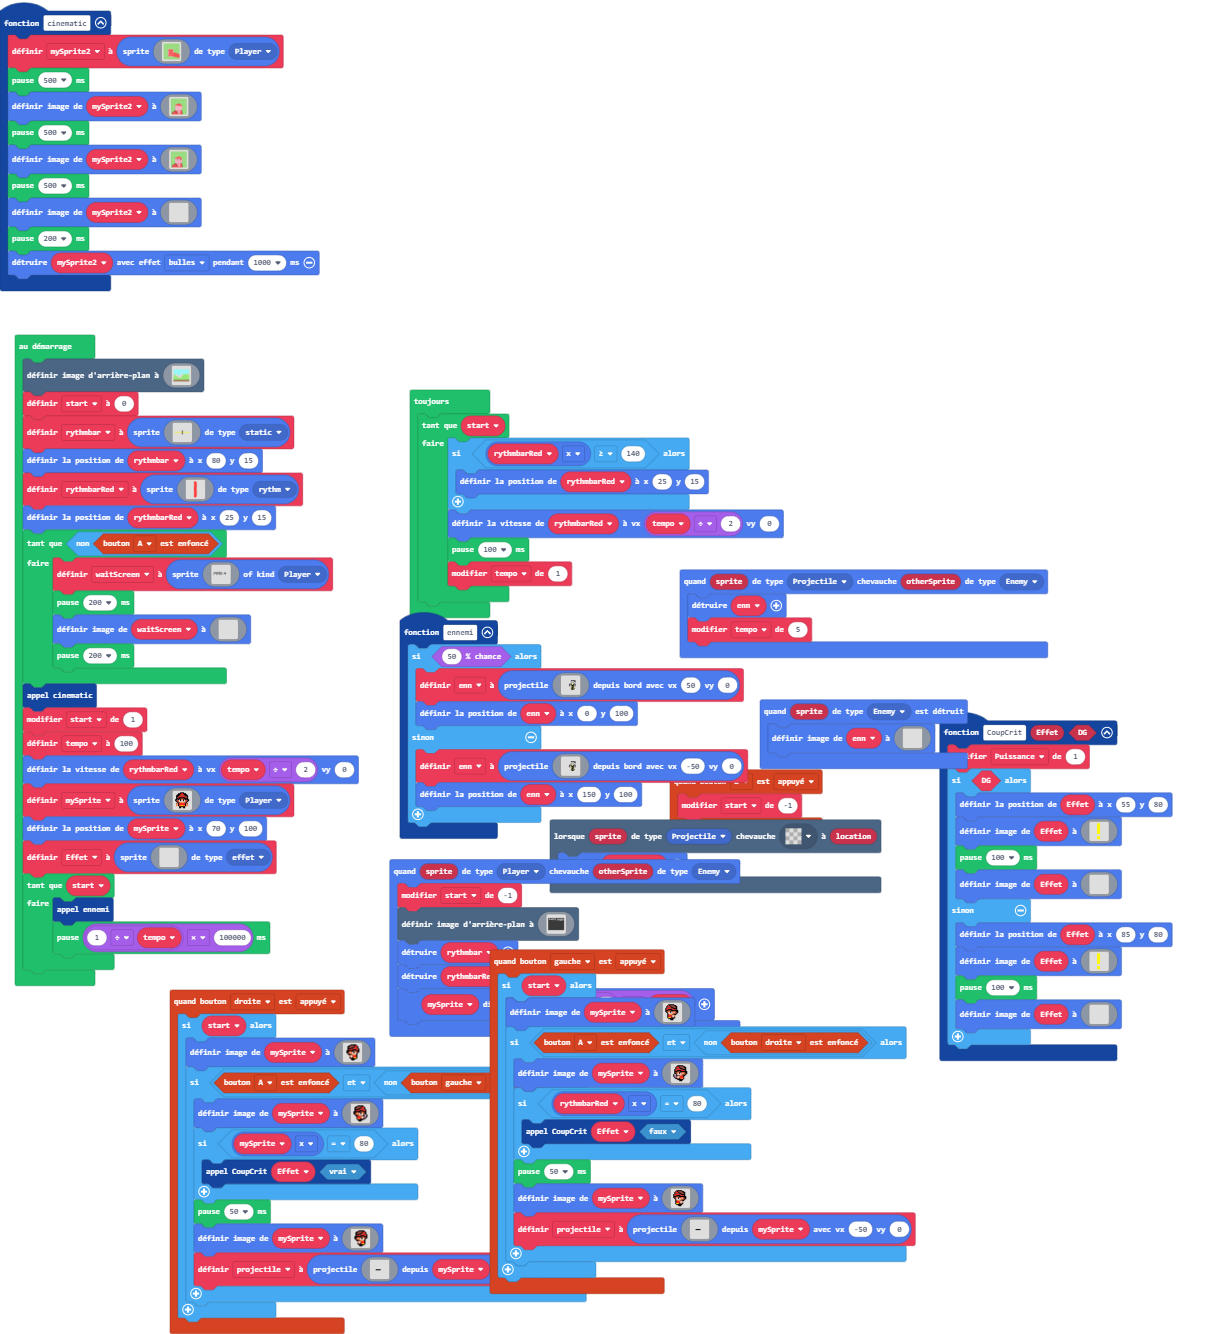
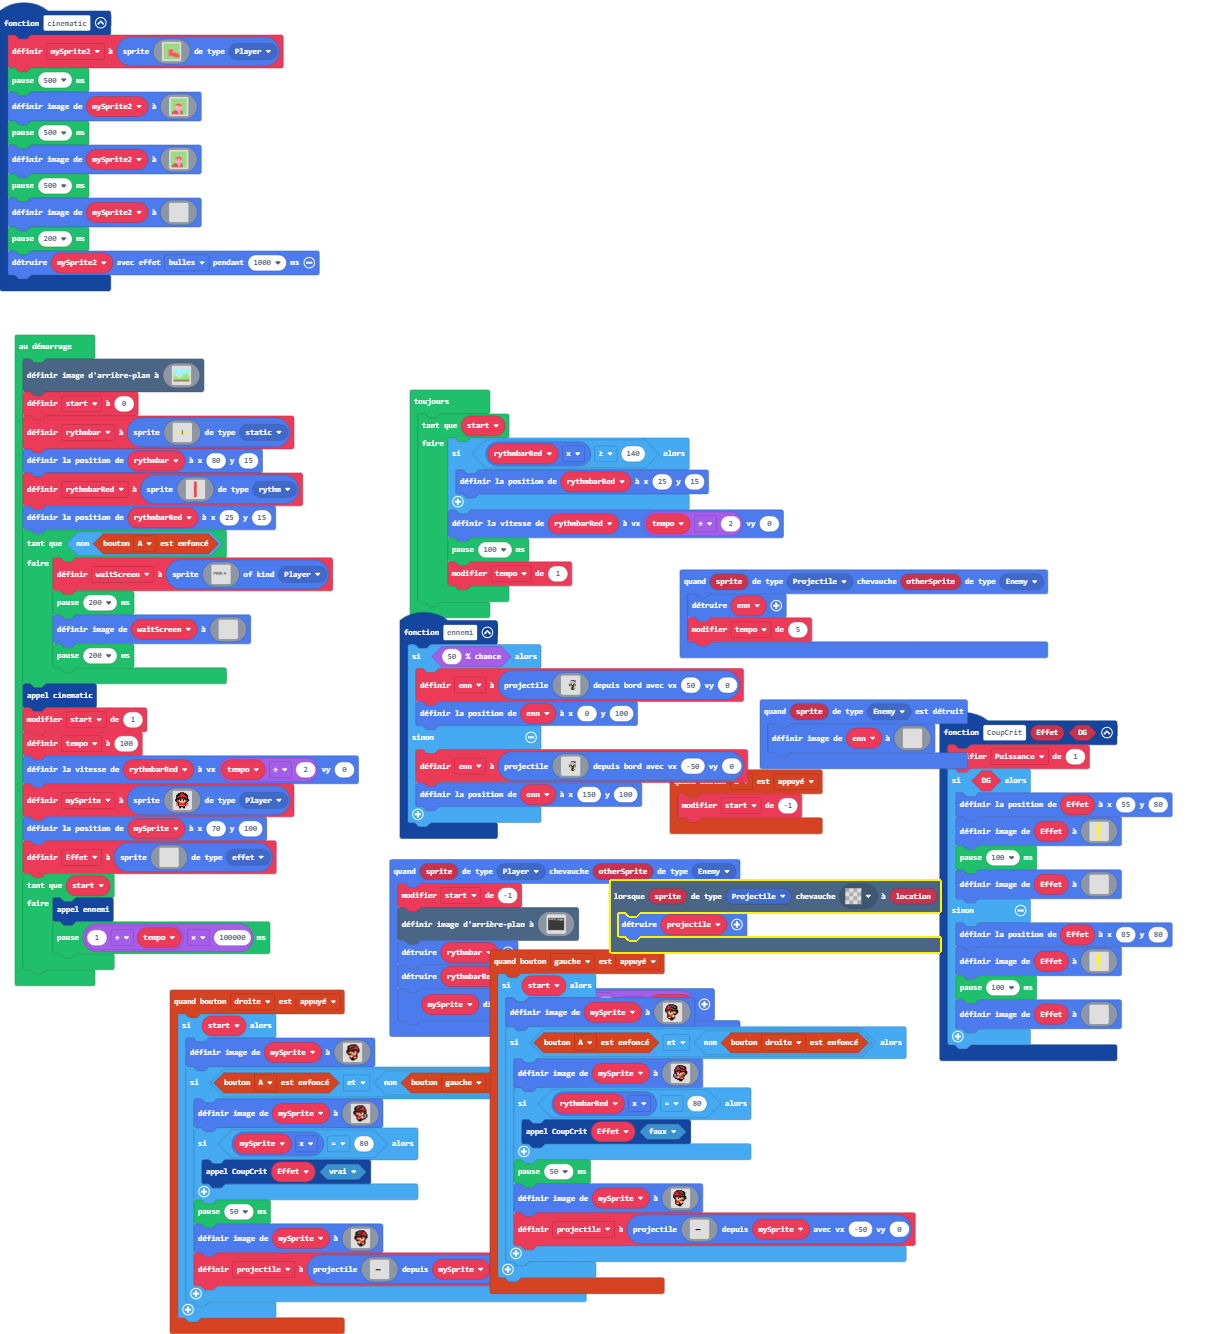
Mise à jour main.blocks, images.g.jres, images.g.ts

Changed region(s): [[0.4346, 0.6147, 0.7761, 0.7376]]

diff --git a/images.g.ts b/images.g.ts
@@ -1753,128 +1753,6 @@ ffffffffffffffffffffffffffffffffffffffffffffffffffffffffffffffffffffffffffffffff
 . . . . . . . . . . . . . . . . 
 . . . . . . . . . . . . . . . . 
 `;
-            case "image18":return img`
-ffffffffffffffffffffffffffffffffffffffffffffffffffffffffffffffffffffffffffffffffffffffffffffffffffffffffffffffffffffffffffffffffffffffffffffffffffffffffffffffff
-ffffffffffffffffffffffffffffffffffffffffffffffffffffffffffffffffffffffffffffffffffffffffffffffffffffffffffffffffffffffffffffffffffffffffffffffffffffffffffffffff
-ffffffffffffffffffffffffffffffffffffffffffffffffffffffffffffffffffffffffffffffffffffffffffffffffffffffffffffffffffffffffffffffffffffffffffffffffffffffffffffffff
[23 lines of base64/hex data omitted]
-ffffffffffffffffffffffffffffffffffffffffffffffffffffffffffffffffffffffffffffffffffffffffffffffffffffffffffffffffffffffffffffffffffffffffffffffffffffffffffffffff
-ffffffffffffffffffffffffffffffffffffffffffffffffffffffffffffffffffffffffffffffffffffffffffffffffffffffffffffffffffffffffffffffffffffffffffffffffffffffffffffffff
-ffffffffffffffffffffffffffffffffffffffffffffffffffffffffffffffffffffffffffffffffffffffffffffffffffffffffffffffffffffffffffffffffffffffffffffffffffffffffffffffff
-ffffffffffffffffffffffffffffffffffffffffffffffffffffffffffffffffffffffffffffffffffffffffffffffffffffffffffffffffffffffffffffffffffffffffffffffffffffffffffffffff
-ffffffffffffffffffffffffffffffffffffffffffffffffffffffffffffffffffffffffffffffffffffffffffffffffffffffffffffffffffffffffffffffffffffffffffffffffffffffffffffffff
-ffffffffffffffffffffffffffffffffffffffffffffffffffffffffffffffffffffffffffffffffffffffffffffffffffffffffffffffffffffffffffffffffffffffffffffffffffffffffffffffff
-ffffffffffffffffffffffffffffffffffffffffffffffffffffffffffffffffffffffffffffffffffffffffffffffffffffffffffffffffffffffffffffffffffffffffffffffffffffffffffffffff
-ffffffffffffffffffffffffffffffffffffffffffffffffffffffffffffffffffffffffffffffffffffffffffffffffffffffffffffffffffffffffffffffffffffffffffffffffffffffffffffffff
-ffffffffffffffffffffffffffffffffffffffffffffffffffffffffffffffffffffffffffffffffffffffffffffffffffffffffffffffffffffffffffffffffffffffffffffffffffffffffffffffff
-ffffffffffffffffffffffffffffffffffffffffffffffffffffffffffffffffffffffffffffffffffffffffffffffffffffffffffffffffffffffffffffffffffffffffffffffffffffffffffffffff
-ffffffffffffffffffffffffffffffffffffffffffffffffffffffffffffffffffffffffffffffffffffffffffffffffffffffffffffffffffffffffffffffffffffffffffffffffffffffffffffffff
-ffffffffffffffffffffffffffffffffffffffffffffffffffffffffffffffffffffffffffffffffffffffffffffffffffffffffffffffffffffffffffffffffffffffffffffffffffffffffffffffff
-ffffffffffffffffffffffffffffffffffffffffffffffffffffffffffffffffffffffffffffffffffffffffffffffffffffffffffffffffffffffffffffffffffffffffffffffffffffffffffffffff
-ffffffffffffffffffffffffffffffffffffffffffffffffffffffffffffffffffffffffffffffffffffffffffffffffffffffffffffffffffffffffffffffffffffffffffffffffffffffffffffffff
-ffffffffffffffffffffffffffffffffffffffffffffffffffffffffffffffffffffffffffffffffffffffffffffffffffffffffffffffffffffffffffffffffffffffffffffffffffffffffffffffff
-ffffffffffffffffffffffffffffffffffffffffffffffffffffffffffffffffffffffffffffffffffffffffffffffffffffffffffffffffffffffffffffffffffffffffffffffffffffffffffffffff
-ffffffffffffffffffffffffffffffffffffffffffffffffffffffffffffffffffffffffffffffffffffffffffffffffffffffffffffffffffffffffffffffffffffffffffffffffffffffffffffffff
-ffffffffffffffffffffffffffffffffffffffffffffffffffffffffffffffffffffffffffffffffffffffffffffffffffffffffffffffffffffffffffffffffffffffffffffffffffffffffffffffff
-ffffffffffffffffffffffffffffffffffffffffffffffffffffffffffffffffffffffffffffffffffffffffffffffffffffffffffffffffffffffffffffffffffffffffffffffffffffffffffffffff
-ffffffffffffffffffffffffffffffffffffffffffffffffffffffffffffffffffffffffffffffffffffffffffffffffffffffffffffffffffffffffffffffffffffffffffffffffffffffffffffffff
-ffffffffffffffffffffffffffffffffffffffffffffffffffffffffffffffffffffffffffffffffffffffffffffffffffffffffffffffffffffffffffffffffffffffffffffffffffffffffffffffff
-ffffffffffffffffffffffffffffffffffffffffffffffffffffffffffffffffffffffffffffffffffffffffffffffffffffffffffffffffffffffffffffffffffffffffffffffffffffffffffffffff
-ffffffffffffffffffffffffffffffffffffffffffffffffffffffffffffffffffffffffffffffffffffffffffffffffffffffffffffffffffffffffffffffffffffffffffffffffffffffffffffffff
-ffffffffffffffffffffffffffffffffffffffffffffffffffffffffffffffffffffffffffffffffffffffffffffffffffffffffffffffffffffffffffffffffffffffffffffffffffffffffffffffff
-ffffffffffffffffffffffffffffffffffffffffffffffffffffffffffffffffffffffffffffffffffffffffffffffffffffffffffffffffffffffffffffffffffffffffffffffffffffffffffffffff
-ffffffffffffffffffffffffffffffffffffffffffffffffffffffffffffffffffffffffffffffffffffffffffffffffffffffffffffffffffffffffffffffffffffffffffffffffffffffffffffffff
-ffffffffffffffffffffffffffffffffffffffffffffffffffffffffffffffffffffffffffffffffffffffffffffffffffffffffffffffffffffffffffffffffffffffffffffffffffffffffffffffff
-ffffffffffffffffffffffffffffffffffffffffffffffffffffffffffffffffffffffffffffffffffffffffffffffffffffffffffffffffffffffffffffffffffffffffffffffffffffffffffffffff
-ffffffffffffffffffffffffffffffffffffffffffffffffffffffffffffffffffffffffffffffffffffffffffffffffffffffffffffffffffffffffffffffffffffffffffffffffffffffffffffffff
-ffffffffffffffffffffffffffffffffffffffffffffffffffffffffffffffffffffffffffffffffffffffffffffffffffffffffffffffffffffffffffffffffffffffffffffffffffffffffffffffff
-ffffffffffffffffffffffffffffffffffffffffffffffffffffffffffffffffffffffffffffffffffffffffffffffffffffffffffffffffffffffffffffffffffffffffffffffffffffffffffffffff
-ffffffffffffffffffffffffffffffffffffffffffffffffffffffffffffffffffffffffffffffffffffffffffffffffffffffffffffffffffffffffffffffffffffffffffffffffffffffffffffffff
-ffffffffffffffffffffffffffffffffffffffffffffffffffffffffffffffffffffffffffffffffffffffffffffffffffffffffffffffffffffffffffffffffffffffffffffffffffffffffffffffff
-ffffffffffffffffffffffffffffffffffffffffffffffffffffffffffffffffffffffffffffffffffffffffffffffffffffffffffffffffffffffffffffffffffffffffffffffffffffffffffffffff
-ffffffffffffffffffffffffffffffffffffffffffffffffffffffffffffffffffffffffffffffffffffffffffffffffffffffffffffffffffffffffffffffffffffffffffffffffffffffffffffffff
-ffffffffffffffffffffffffffffffffffffffffffffffffffffffffffffffffffffffffffffffffffffffffffffffffffffffffffffffffffffffffffffffffffffffffffffffffffffffffffffffff
-ffffffffffffffffffffffffffffffffffffffffffffffffffffffffffffffffffffffffffffffffffffffffffffffffffffffffffffffffffffffffffffffffffffffffffffffffffffffffffffffff
-ffffffffffffffffffffffffffffffffffffffffffffffffffffffffffffffffffffffffffffffffffffffffffffffffffffffffffffffffffffffffffffffffffffffffffffffffffffffffffffffff
-ffffffffffffffffffffffffffffffffffffffffffffffffffffffffffffffffffffffffffffffffffffffffffffffffffffffffffffffffffffffffffffffffffffffffffffffffffffffffffffffff
-ffffffffffffffffffffffffffffffffffffffffffffffffffffffffffffffffffffffffffffffffffffffffffffffffffffffffffffffffffffffffffffffffffffffffffffffffffffffffffffffff
-ffffffffffffffffffffffffffffffffffffffffffffffffffffffffffffffffffffffffffffffffffffffffffffffffffffffffffffffffffffffffffffffffffffffffffffffffffffffffffffffff
-ffffffffffffffffffffffffffffffffffffffffffffffffffffffffffffffffffffffffffffffffffffffffffffffffffffffffffffffffffffffffffffffffffffffffffffffffffffffffffffffff
-ffffffffffffffffffffffffffffffffffffffffffffffffffffffffffffffffffffffffffffffffffffffffffffffffffffffffffffffffffffffffffffffffffffffffffffffffffffffffffffffff
-ffffffffffffffffffffffffffffffffffffffffffffffffffffffffffffffffffffffffffffffffffffffffffffffffffffffffffffffffffffffffffffffffffffffffffffffffffffffffffffffff
-ffffffffffffffffffffffffffffffffffffffffffffffffffffffffffffffffffffffffffffffffffffffffffffffffffffffffffffffffffffffffffffffffffffffffffffffffffffffffffffffff
-ffffffffffffffffffffffffffffffffffffffffffffffffffffffffffffffffffffffffffffffffffffffffffffffffffffffffffffffffffffffffffffffffffffffffffffffffffffffffffffffff
-ffffffffffffffffffffffffffffffffffffffffffffffffffffffffffffffffffffffffffffffffffffffffffffffffffffffffffffffffffffffffffffffffffffffffffffffffffffffffffffffff
-ffffffffffffffffffffffffffffffffffffffffffffffffffffffffffffffffffffffffffffffffffffffffffffffffffffffffffffffffffffffffffffffffffffffffffffffffffffffffffffffff
-ffffffffffffffffffffffffffffffffffffffffffffffffffffffffffffffffffffffffffffffffffffffffffffffffffffffffffffffffffffffffffffffffffffffffffffffffffffffffffffffff
-ffffffffffffffffffffffffffffffffffffffffffffffffffffffffffffffffffffffffffffffffffffffffffffffffffffffffffffffffffffffffffffffffffffffffffffffffffffffffffffffff
-ffffffffffffffffffffffffffffffffffffffffffffffffffffffffffffffffffffffffffffffffffffffffffffffffffffffffffffffffffffffffffffffffffffffffffffffffffffffffffffffff
-ffffffffffffffffffffffffffffffffffffffffffffffffffffffffffffffffffffffffffffffffffffffffffffffffffffffffffffffffffffffffffffffffffffffffffffffffffffffffffffffff
-ffffffffffffffffffffffffffffffffffffffffffffffffffffffffffffffffffffffffffffffffffffffffffffffffffffffffffffffffffffffffffffffffffffffffffffffffffffffffffffffff
-ffffffffffffffffffffffffffffffffffffffffffffffffffffffffffffffffffffffffffffffffffffffffffffffffffffffffffffffffffffffffffffffffffffffffffffffffffffffffffffffff
-ffffffffffffffffffffffffffffffffffffffffffffffffffffffffffffffffffffffffffffffffffffffffffffffffffffffffffffffffffffffffffffffffffffffffffffffffffffffffffffffff
-ffffffffffffffffffffffffffffffffffffffffffffffffffffffffffffffffffffffffffffffffffffffffffffffffffffffffffffffffffffffffffffffffffffffffffffffffffffffffffffffff
-ffffffffffffffffffffffffffffffffffffffffffffffffffffffffffffffffffffffffffffffffffffffffffffffffffffffffffffffffffffffffffffffffffffffffffffffffffffffffffffffff
-ffffffffffffffffffffffffffffffffffffffffffffffffffffffffffffffffffffffffffffffffffffffffffffffffffffffffffffffffffffffffffffffffffffffffffffffffffffffffffffffff
-ffffffffffffffffffffffffffffffffffffffffffffffffffffffffffffffffffffffffffffffffffffffffffffffffffffffffffffffffffffffffffffffffffffffffffffffffffffffffffffffff
-ffffffffffffffffffffffffffffffffffffffffffffffffffffffffffffffffffffffffffffffffffffffffffffffffffffffffffffffffffffffffffffffffffffffffffffffffffffffffffffffff
-ffffffffffffffffffffffffffffffffffffffffffffffffffffffffffffffffffffffffffffffffffffffffffffffffffffffffffffffffffffffffffffffffffffffffffffffffffffffffffffffff
-ffffffffffffffffffffffffffffffffffffffffffffffffffffffffffffffffffffffffffffffffffffffffffffffffffffffffffffffffffffffffffffffffffffffffffffffffffffffffffffffff
-ffffffffffffffffffffffffffffffffffffffffffffffffffffffffffffffffffffffffffffffffffffffffffffffffffffffffffffffffffffffffffffffffffffffffffffffffffffffffffffffff
-ffffffffffffffffffffffffffffffffffffffffffffffffffffffffffffffffffffffffffffffffffffffffffffffffffffffffffffffffffffffffffffffffffffffffffffffffffffffffffffffff
-ffffffffffffffffffffffffffffffffffffffffffffffffffffffffffffffffffffffffffffffffffffffffffffffffffffffffffffffffffffffffffffffffffffffffffffffffffffffffffffffff
-ffffffffffffffffffffffffffffffffffffffffffffffffffffffffffffffffffffffffffffffffffffffffffffffffffffffffffffffffffffffffffffffffffffffffffffffffffffffffffffffff
-ffffffffffffffffffffffffffffffffffffffffffffffffffffffffffffffffffffffffffffffffffffffffffffffffffffffffffffffffffffffffffffffffffffffffffffffffffffffffffffffff
-ffffffffffffffffffffffffffffffffffffffffffffffffffffffffffffffffffffffffffffffffffffffffffffffffffffffffffffffffffffffffffffffffffffffffffffffffffffffffffffffff
-ffffffffffffffffffffffffffffffffffffffffffffffffffffffffffffffffffffffffffffffffffffffffffffffffffffffffffffffffffffffffffffffffffffffffffffffffffffffffffffffff
-ffffffffffffffffffffffffffffffffffffffffffffffffffffffffffffffffffffffffffffffffffffffffffffffffffffffffffffffffffffffffffffffffffffffffffffffffffffffffffffffff
-ffffffffffffffffffffffffffffffffffffffffffffffffffffffffffffffffffffffffffffffffffffffffffffffffffffffffffffffffffffffffffffffffffffffffffffffffffffffffffffffff
-ffffffffffffffffffffffffffffffffffffffffffffffffffffffffffffffffffffffffffffffffffffffffffffffffffffffffffffffffffffffffffffffffffffffffffffffffffffffffffffffff
-ffffffffffffffffffffffffffffffffffffffffffffffffffffffffffffffffffffffffffffffffffffffffffffffffffffffffffffffffffffffffffffffffffffffffffffffffffffffffffffffff
-ffffffffffffffffffffffffffffffffffffffffffffffffffffffffffffffffffffffffffffffffffffffffffffffffffffffffffffffffffffffffffffffffffffffffffffffffffffffffffffffff
-ffffffffffffffffffffffffffffffffffffffffffffffffffffffffffffffffffffffffffffffffffffffffffffffffffffffffffffffffffffffffffffffffffffffffffffffffffffffffffffffff
-ffffffffffffffffffffffffffffffffffffffffffffffffffffffffffffffffffffffffffffffffffffffffffffffffffffffffffffffffffffffffffffffffffffffffffffffffffffffffffffffff
-ffffffffffffffffffffffffffffffffffffffffffffffffffffffffffffffffffffffffffffffffffffffffffffffffffffffffffffffffffffffffffffffffffffffffffffffffffffffffffffffff
-ffffffffffffffffffffffffffffffffffffffffffffffffffffffffffffffffffffffffffffffffffffffffffffffffffffffffffffffffffffffffffffffffffffffffffffffffffffffffffffffff
-ffffffffffffffffffffffffffffffffffffffffffffffffffffffffffffffffffffffffffffffffffffffffffffffffffffffffffffffffffffffffffffffffffffffffffffffffffffffffffffffff
-ffffffffffffffffffffffffffffffffffffffffffffffffffffffffffffffffffffffffffffffffffffffffffffffffffffffffffffffffffffffffffffffffffffffffffffffffffffffffffffffff
-ffffffffffffffffffffffffffffffffffffffffffffffffffffffffffffffffffffffffffffffffffffffffffffffffffffffffffffffffffffffffffffffffffffffffffffffffffffffffffffffff
-ffffffffffffffffffffffffffffffffffffffffffffffffffffffffffffffffffffffffffffffffffffffffffffffffffffffffffffffffffffffffffffffffffffffffffffffffffffffffffffffff
-ffffffffffffffffffffffffffffffffffffffffffffffffffffffffffffffffffffffffffffffffffffffffffffffffffffffffffffffffffffffffffffffffffffffffffffffffffffffffffffffff
-ffffffffffffffffffffffffffffffffffffffffffffffffffffffffffffffffffffffffffffffffffffffffffffffffffffffffffffffffffffffffffffffffffffffffffffffffffffffffffffffff
-ffffffffffffffffffffffffffffffffffffffffffffffffffffffffffffffffffffffffffffffffffffffffffffffffffffffffffffffffffffffffffffffffffffffffffffffffffffffffffffffff
-ffffffffffffffffffffffffffffffffffffffffffffffffffffffffffffffffffffffffffffffffffffffffffffffffffffffffffffffffffffffffffffffffffffffffffffffffffffffffffffffff
-ffffffffffffffffffffffffffffffffffffffffffffffffffffffffffffffffffffffffffffffffffffffffffffffffffffffffffffffffffffffffffffffffffffffffffffffffffffffffffffffff
-ffffffffffffffffffffffffffffffffffffffffffffffffffffffffffffffffffffffffffffffffffffffffffffffffffffffffffffffffffffffffffffffffffffffffffffffffffffffffffffffff
-ffffffffffffffffffffffffffffffffffffffffffffffffffffffffffffffffffffffffffffffffffffffffffffffffffffffffffffffffffffffffffffffffffffffffffffffffffffffffffffffff
-ffffffffffffffffffffffffffffffffffffffffffffffffffffffffffffffffffffffffffffffffffffffffffffffffffffffffffffffffffffffffffffffffffffffffffffffffffffffffffffffff
-ffffffffffffffffffffffffffffffffffffffffffffffffffffffffffffffffffffffffffffffffffffffffffffffffffffffffffffffffffffffffffffffffffffffffffffffffffffffffffffffff
-ffffffffffffffffffffffffffffffffffffffffffffffffffffffffffffffffffffffffffffffffffffffffffffffffffffffffffffffffffffffffffffffffffffffffffffffffffffffffffffffff
-ffffffffffffffffffffffffffffffffffffffffffffffffffffffffffffffffffffffffffffffffffffffffffffffffffffffffffffffffffffffffffffffffffffffffffffffffffffffffffffffff
-ffffffffffffffffffffffffffffffffffffffffffffffffffffffffffffffffffffffffffffffffffffffffffffffffffffffffffffffffffffffffffffffffffffffffffffffffffffffffffffffff
-`;
         }
         return null;
     })
